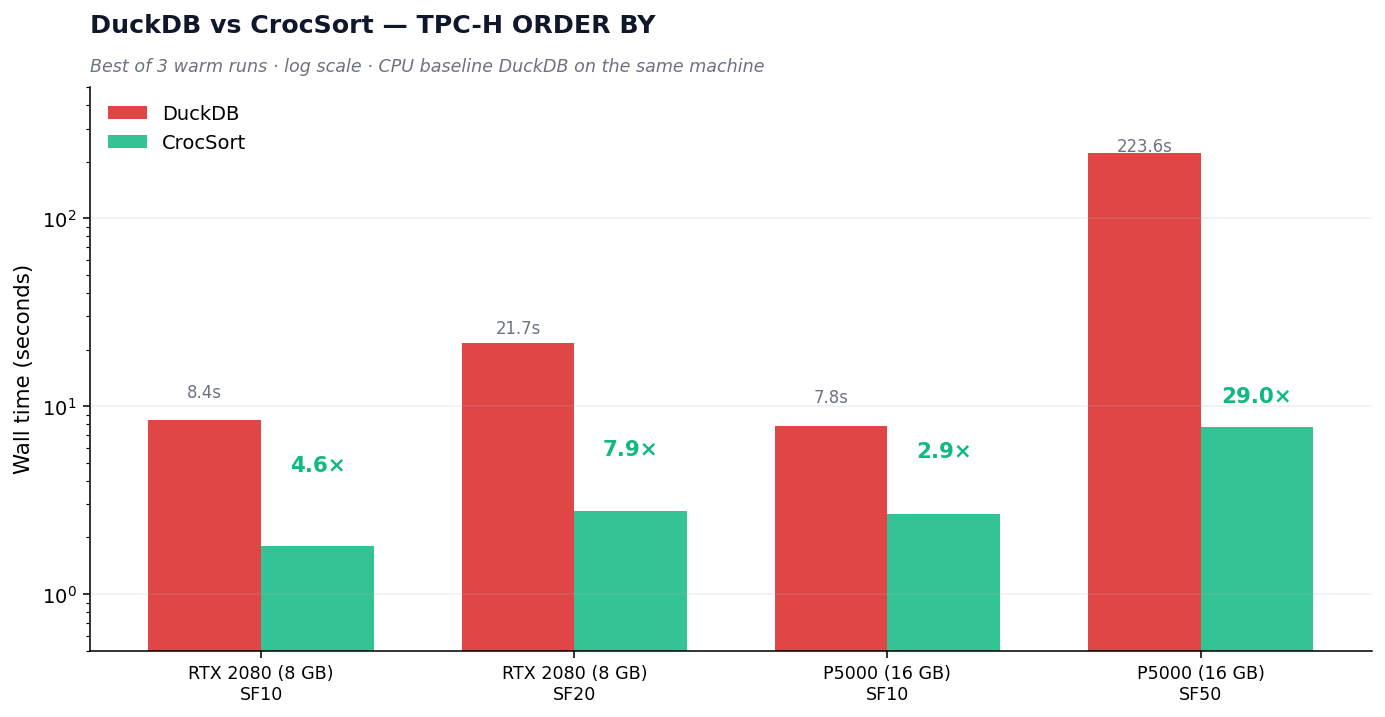
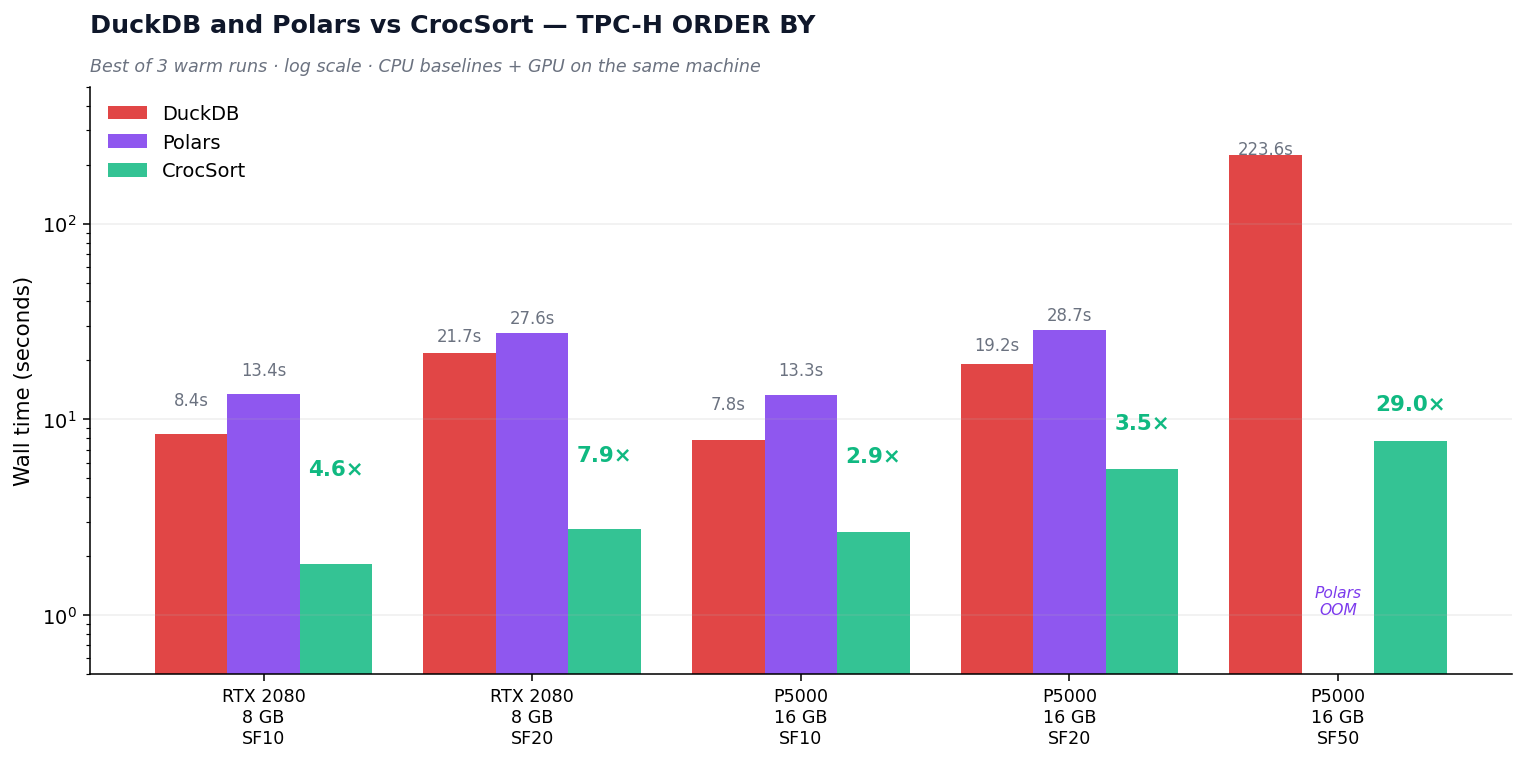
Add Polars to f1 chart + H100 prep scripts on lincoln/roscoe
f1 update: now shows DuckDB + Polars + CrocSort. Polars OOM at SF50.
Speedup vs DuckDB callouts unchanged. Polars confirms a separate CPU
baseline (different sort engine, similar order of magnitude as DuckDB
without the SF50 cliff).

prep_lincoln.sh + prep_roscoe.sh — gear-up experiments running while
waiting for the H100. Lincoln: NYC taxi 6mo end-to-end with bitpack +
SF20 5x variance + random 100M. Roscoe: SF50 5x variance + GPU vs CPU
crossover sweep + NYC taxi 6mo. Both running in tmux.

diff --git a/gen_weekly_figures.py b/gen_weekly_figures.py
@@ -53,29 +53,41 @@ def save(fig, name):
 # Figure 1: DuckDB vs CrocSort wall time per machine
 # ─────────────────────────────────────────────────────────────
 def fig_duckdb_vs_crocsort():
-    # Pulled from baselines + GPU runs.
+    # Pulled from baselines + GPU runs (real measured numbers, best of 3 warm).
     data = [
-        # (machine, gpu_color, sf, gpu_s, duckdb_s)
-        ("RTX 2080 (8 GB)",  AMBER,  "SF10", 1.81,   8.41),
-        ("RTX 2080 (8 GB)",  AMBER,  "SF20", 2.76,  21.74),
-        ("P5000 (16 GB)",    PURPLE, "SF10", 2.66,   7.81),
-        ("P5000 (16 GB)",    PURPLE, "SF50", 7.72, 223.64),
+        # (machine, sf, gpu_s, duckdb_s, polars_s_or_None)
+        ("RTX 2080\n8 GB",  "SF10",  1.81,   8.41,  13.42),
+        ("RTX 2080\n8 GB",  "SF20",  2.76,  21.74,  27.61),
+        ("P5000\n16 GB",    "SF10",  2.66,   7.81,  13.34),
+        ("P5000\n16 GB",    "SF20",  5.54,  19.19,  28.67),
+        ("P5000\n16 GB",    "SF50",  7.72, 223.64,  None),  # Polars OOM
     ]
-    fig, ax = plt.subplots(figsize=(10, 5.2))
+    fig, ax = plt.subplots(figsize=(11, 5.5))
     x = np.arange(len(data))
-    w = 0.36
-    duck = [d[4] for d in data]
-    croc = [d[3] for d in data]
-    labels = [f"{d[0]}\n{d[2]}" for d in data]
-    speedups = [d[4]/d[3] for d in data]
+    w = 0.27
+    duck = [d[3] for d in data]
+    polars = [d[4] if d[4] else 0 for d in data]
+    croc = [d[2] for d in data]
+    labels = [f"{d[0]}\n{d[1]}" for d in data]
 
-    ax.bar(x - w/2, duck, w, label="DuckDB",  color=CPU, alpha=0.85)
-    ax.bar(x + w/2, croc, w, label="CrocSort", color=GPU, alpha=0.85)
+    ax.bar(x - w, duck,   w, label="DuckDB",   color=CPU,    alpha=0.85)
+    ax.bar(x,     polars, w, label="Polars",   color=PURPLE, alpha=0.85)
+    ax.bar(x + w, croc,   w, label="CrocSort", color=GPU,    alpha=0.85)
 
-    for i, (d, c, s) in enumerate(zip(duck, croc, speedups)):
-        ax.text(i + w/2, c + max(duck)*0.012, f"{s:.1f}×",
+    for i, (d, p, c) in enumerate(zip(duck, polars, croc)):
+        # Speedup vs DuckDB above CrocSort bar
+        s_d = d / c
+        ax.text(i + w, c + max(duck)*0.015, f"{s_d:.1f}×",
                 ha="center", fontsize=11, fontweight="bold", color=GPU)
-        ax.text(i - w/2, d + max(duck)*0.012, f"{d:.1f}s",
+        # Polars bar value (when present)
+        if polars[i] > 0:
+            ax.text(i, p + max(duck)*0.015, f"{p:.1f}s",
+                    ha="center", fontsize=8.5, color=GRAY)
+        else:
+            ax.text(i, 1.0, "Polars\nOOM", ha="center", fontsize=8,
+                    color=PURPLE, style="italic")
+        # DuckDB bar value
+        ax.text(i - w, d + max(duck)*0.015, f"{d:.1f}s",
                 ha="center", fontsize=8.5, color=GRAY)
 
     ax.set_xticks(x); ax.set_xticklabels(labels, fontsize=9)
@@ -84,8 +96,8 @@ def fig_duckdb_vs_crocsort():
     ax.set_ylim(0.5, 500)
     ax.legend(loc="upper left", frameon=False)
     ax.grid(True, axis="y", alpha=0.2, zorder=0)
-    title(ax, "DuckDB vs CrocSort — TPC-H ORDER BY",
-          "Best of 3 warm runs · log scale · CPU baseline DuckDB on the same machine")
+    title(ax, "DuckDB and Polars vs CrocSort — TPC-H ORDER BY",
+          "Best of 3 warm runs · log scale · CPU baselines + GPU on the same machine")
     save(fig, "f1_duckdb_vs_crocsort")
 
 # ─────────────────────────────────────────────────────────────
